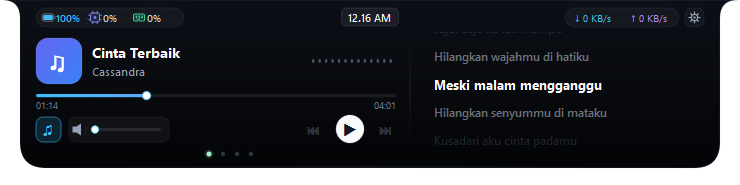
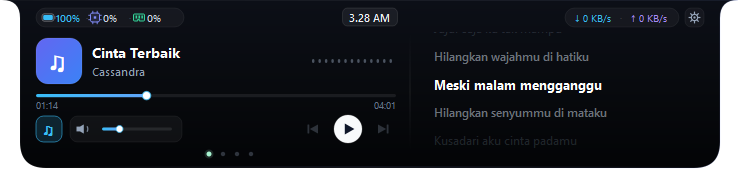
fix(ui): calibrate padding, optical centering, and vector transport controls in media hub

Changed region(s): [[0.4041, 0.6216, 0.5284, 0.7838], [0.0311, 0.6216, 0.1865, 0.7568], [0.4662, 0.0541, 0.5284, 0.1351]]

diff --git a/dynamic.py b/dynamic.py
@@ -2173,12 +2173,9 @@ class DesktopDynamicIsland(QWidget):
     @staticmethod
     def _draw_animated_speaker_icon(painter, cx: float, cy: float, level: float, pulse: float = 0.0, is_mute: bool = False, color: QColor = QColor("#CBD5E1")):
         """
-        Renders the dynamic animated speaker icon:
-        - level == 0 or is_mute: Speaker + micro cross (✕)
-        - 0 < level <= 0.33: Speaker + 1 wave
-        - 0.33 < level <= 0.66: Speaker + 2 waves
-        - level > 0.66: Speaker + 3 waves
-        - pulse: scale punch / ripple wave animation factor
+        Renders the dynamic animated speaker icon with refined proportions:
+        - Clean padding from capsule edge
+        - Soundwaves scaled to fit elegantly within the capsule without clipping
         """
         painter.save()
         painter.setRenderHint(QPainter.RenderHint.Antialiasing)
@@ -2190,18 +2187,18 @@ class DesktopDynamicIsland(QWidget):
             painter.translate(-cx, -cy)
 
         # 1. Speaker Cone Body
-        cone_w = 4.0
-        cone_h = 6.0
-        flare_w = 4.5
-        flare_h = 12.0
+        cone_w = 3.5
+        cone_h = 4.8
+        flare_w = 3.8
+        flare_h = 9.2
 
         body = QPainterPath()
-        body.moveTo(cx - 7.5, cy - cone_h / 2.0)
-        body.lineTo(cx - 7.5 + cone_w, cy - cone_h / 2.0)
-        body.lineTo(cx - 7.5 + cone_w + flare_w, cy - flare_h / 2.0)
-        body.lineTo(cx - 7.5 + cone_w + flare_w, cy + flare_h / 2.0)
-        body.lineTo(cx - 7.5 + cone_w, cy + cone_h / 2.0)
-        body.lineTo(cx - 7.5, cy + cone_h / 2.0)
+        body.moveTo(cx - 6.5, cy - cone_h / 2.0)
+        body.lineTo(cx - 6.5 + cone_w, cy - cone_h / 2.0)
+        body.lineTo(cx - 6.5 + cone_w + flare_w, cy - flare_h / 2.0)
+        body.lineTo(cx - 6.5 + cone_w + flare_w, cy + flare_h / 2.0)
+        body.lineTo(cx - 6.5 + cone_w, cy + cone_h / 2.0)
+        body.lineTo(cx - 6.5, cy + cone_h / 2.0)
         body.closeSubpath()
 
         painter.setPen(Qt.PenStyle.NoPen)
@@ -2210,18 +2207,18 @@ class DesktopDynamicIsland(QWidget):
 
         # 2. Soundwaves / Mute State
         if is_mute or level <= 0.001:
-            painter.setPen(QPen(QColor("#F87171"), 1.6, Qt.PenStyle.SolidLine, Qt.PenCapStyle.RoundCap))
-            cross_cx = cx + 5.0
-            painter.drawLine(QPointF(cross_cx - 3.2, cy - 3.2), QPointF(cross_cx + 3.2, cy + 3.2))
-            painter.drawLine(QPointF(cross_cx - 3.2, cy + 3.2), QPointF(cross_cx + 3.2, cy - 3.2))
+            painter.setPen(QPen(QColor("#F87171"), 1.5, Qt.PenStyle.SolidLine, Qt.PenCapStyle.RoundCap))
+            cross_cx = cx + 4.5
+            painter.drawLine(QPointF(cross_cx - 2.5, cy - 2.5), QPointF(cross_cx + 2.5, cy + 2.5))
+            painter.drawLine(QPointF(cross_cx - 2.5, cy + 2.5), QPointF(cross_cx + 2.5, cy - 2.5))
         else:
             painter.setBrush(Qt.BrushStyle.NoBrush)
             w1_alpha = min(255, int(255 * min(1.0, level / 0.33)))
             w1_col = QColor(color.red(), color.green(), color.blue(), w1_alpha)
             painter.setPen(QPen(w1_col, 1.3, Qt.PenStyle.SolidLine, Qt.PenCapStyle.RoundCap))
             wave1 = QPainterPath()
-            wave1.arcMoveTo(QRectF(cx + 1.0, cy - 4.5, 5.0, 9.0), -45)
-            wave1.arcTo(QRectF(cx + 1.0, cy - 4.5, 5.0, 9.0), -45, 90)
+            wave1.arcMoveTo(QRectF(cx + 1.2, cy - 3.2, 3.6, 6.4), -45)
+            wave1.arcTo(QRectF(cx + 1.2, cy - 3.2, 3.6, 6.4), -45, 90)
             painter.drawPath(wave1)
 
             if level > 0.33:
@@ -2229,8 +2226,8 @@ class DesktopDynamicIsland(QWidget):
                 w2_col = QColor(color.red(), color.green(), color.blue(), w2_alpha)
                 painter.setPen(QPen(w2_col, 1.3, Qt.PenStyle.SolidLine, Qt.PenCapStyle.RoundCap))
                 wave2 = QPainterPath()
-                wave2.arcMoveTo(QRectF(cx + 3.5, cy - 7.5, 7.5, 15.0), -50)
-                wave2.arcTo(QRectF(cx + 3.5, cy - 7.5, 7.5, 15.0), -50, 100)
+                wave2.arcMoveTo(QRectF(cx + 3.2, cy - 5.2, 5.2, 10.4), -50)
+                wave2.arcTo(QRectF(cx + 3.2, cy - 5.2, 5.2, 10.4), -50, 100)
                 painter.drawPath(wave2)
 
             if level > 0.66:
@@ -2238,13 +2235,65 @@ class DesktopDynamicIsland(QWidget):
                 w3_col = QColor(color.red(), color.green(), color.blue(), w3_alpha)
                 painter.setPen(QPen(w3_col, 1.3, Qt.PenStyle.SolidLine, Qt.PenCapStyle.RoundCap))
                 wave3 = QPainterPath()
-                wave3.arcMoveTo(QRectF(cx + 6.0, cy - 10.5, 10.0, 21.0), -55)
-                wave3.arcTo(QRectF(cx + 6.0, cy - 10.5, 10.0, 21.0), -55, 110)
+                wave3.arcMoveTo(QRectF(cx + 5.2, cy - 7.2, 6.8, 14.4), -55)
+                wave3.arcTo(QRectF(cx + 5.2, cy - 7.2, 6.8, 14.4), -55, 110)
                 painter.drawPath(wave3)
 
         painter.restore()
 
     @staticmethod
+    def _draw_vector_prev(painter, cx: float, cy: float, col: QColor):
+        """Draw clean, antialiased vector previous button (bar + left triangle)."""
+        painter.save()
+        painter.setRenderHint(QPainter.RenderHint.Antialiasing)
+        painter.setPen(Qt.PenStyle.NoPen)
+        painter.setBrush(QBrush(col))
+        painter.drawRoundedRect(QRectF(cx - 5.5, cy - 4.5, 1.8, 9.0), 0.6, 0.6)
+        tri = QPainterPath()
+        tri.moveTo(cx + 5.0, cy - 4.5)
+        tri.lineTo(cx - 3.2, cy)
+        tri.lineTo(cx + 5.0, cy + 4.5)
+        tri.closeSubpath()
+        painter.drawPath(tri)
+        painter.restore()
+
+    @staticmethod
+    def _draw_vector_next(painter, cx: float, cy: float, col: QColor):
+        """Draw clean, antialiased vector next button (right triangle + bar)."""
+        painter.save()
+        painter.setRenderHint(QPainter.RenderHint.Antialiasing)
+        painter.setPen(Qt.PenStyle.NoPen)
+        painter.setBrush(QBrush(col))
+        tri = QPainterPath()
+        tri.moveTo(cx - 5.0, cy - 4.5)
+        tri.lineTo(cx + 3.2, cy)
+        tri.lineTo(cx - 5.0, cy + 4.5)
+        tri.closeSubpath()
+        painter.drawPath(tri)
+        painter.drawRoundedRect(QRectF(cx + 3.7, cy - 4.5, 1.8, 9.0), 0.6, 0.6)
+        painter.restore()
+
+    @staticmethod
+    def _draw_vector_play_pause(painter, cx: float, cy: float, is_playing: bool, col: QColor):
+        """Draw optically balanced play triangle or symmetrical pause bars."""
+        painter.save()
+        painter.setRenderHint(QPainter.RenderHint.Antialiasing)
+        painter.setPen(Qt.PenStyle.NoPen)
+        painter.setBrush(QBrush(col))
+        if is_playing:
+            p1 = QRectF(cx - 3.8, cy - 5.0, 2.6, 10.0)
+            p2 = QRectF(cx + 1.2, cy - 5.0, 2.6, 10.0)
+            painter.drawRoundedRect(p1, 0.8, 0.8)
+            painter.drawRoundedRect(p2, 0.8, 0.8)
+        else:
+            tri = QPainterPath()
+            tri.moveTo(cx - 3.2, cy - 5.5)
+            tri.lineTo(cx + 6.4, cy)
+            tri.lineTo(cx - 3.2, cy + 5.5)
+            tri.closeSubpath()
+            painter.drawPath(tri)
+        painter.restore()
+
     def _draw_volume_icon(painter, rect: QRectF, increase: bool, color: QColor):
         """Draw SF Symbol speaker with crisp hairline plus/minus indicator."""
         cx, cy = rect.center().x(), rect.center().y()
@@ -4961,17 +5010,19 @@ class DesktopDynamicIsland(QWidget):
                 painter.drawText(QRectF(media_left, seek_y + 4.0, 50.0, 14.0), Qt.AlignmentFlag.AlignLeft | Qt.AlignmentFlag.AlignVCenter, self.format_time(display_pos))
                 painter.drawText(QRectF(media_left + seek_w - 50.0, seek_y + 4.0, 50.0, 14.0), Qt.AlignmentFlag.AlignRight | Qt.AlignmentFlag.AlignVCenter, self.format_time(dur))
 
-                # 5. Bottom Row: Controls & Volume Slider (ctrl_y = 117.0)
-                ctrl_y = 117.0
+                # 5. Bottom Row: Controls & Volume Slider (ctrl_y = 116.0, unified centerline y=129.0)
+                ctrl_y = 116.0
+                row_h = 26.0
+                cy_row = ctrl_y + (row_h / 2.0)
 
                 # 5a. Lyrics Button (Left)
                 if self.is_spotify_active:
-                    self.btn_lyrics_rect = QRectF(media_left, ctrl_y, 25.0, 25.0)
+                    self.btn_lyrics_rect = QRectF(media_left, ctrl_y, 26.0, 26.0)
                     lyrics_active = self.lyrics_open
                     painter.setBrush(QBrush(QColor(56, 189, 248, 40) if lyrics_active else QColor(255, 255, 255, 12)))
                     painter.setPen(QPen(QColor(56, 189, 248, 180) if lyrics_active else QColor(255, 255, 255, 20), 0.8))
-                    painter.drawRoundedRect(self.btn_lyrics_rect, 7.0, 7.0)
-                    painter.setFont(_font("Segoe UI", 9.5, QFont.Weight.DemiBold))
+                    painter.drawRoundedRect(self.btn_lyrics_rect, 7.5, 7.5)
+                    painter.setFont(_font("Segoe UI Symbol", 9.5, QFont.Weight.Bold))
                     painter.setPen(QColor("#38BDF8") if lyrics_active else QColor("#E2E8F0"))
                     painter.drawText(self.btn_lyrics_rect, Qt.AlignmentFlag.AlignCenter, "♫")
                     vol_group_x = self.btn_lyrics_rect.right() + 8.0
@@ -4980,13 +5031,13 @@ class DesktopDynamicIsland(QWidget):
                     vol_group_x = media_left
 
                 # 5b. Speaker Icon + Volume Slider Capsule [ 🔈 ═════●───── ]
-                vol_group_w = 100.0
-                self.vol_group_rect = QRectF(vol_group_x, ctrl_y, vol_group_w, 25.0)
-                self.btn_speaker_rect = QRectF(vol_group_x, ctrl_y, 24.0, 25.0)
+                vol_group_w = 112.0
+                self.vol_group_rect = QRectF(vol_group_x, ctrl_y, vol_group_w, 26.0)
+                self.btn_speaker_rect = QRectF(vol_group_x, ctrl_y, 30.0, 26.0)
 
-                vol_track_x = vol_group_x + 24.0
-                vol_track_w = 68.0
-                vol_track_y = ctrl_y + 11.0
+                vol_track_x = vol_group_x + 32.0
+                vol_track_w = 70.0
+                vol_track_y = ctrl_y + 11.5
                 self.vol_track_rect = QRectF(vol_track_x, vol_track_y, vol_track_w, 3.0)
 
                 # Capsule Background
@@ -4994,7 +5045,7 @@ class DesktopDynamicIsland(QWidget):
                 slider_hovered = self.hovered_btn == "volume_slider" or getattr(self, "is_dragging_volume", False)
                 painter.setBrush(QBrush(QColor(255, 255, 255, 18 if (speaker_hovered or slider_hovered) else 11)))
                 painter.setPen(QPen(QColor(255, 255, 255, 16), 0.8))
-                painter.drawRoundedRect(self.vol_group_rect, 7.0, 7.0)
+                painter.drawRoundedRect(self.vol_group_rect, 7.5, 7.5)
 
                 if not getattr(self, "is_dragging_volume", False):
                     self.current_volume_scalar = self.audio_controller.get_volume()
@@ -5004,14 +5055,14 @@ class DesktopDynamicIsland(QWidget):
                 is_muted = getattr(self, "is_audio_muted", False)
                 vol_pulse = getattr(self, "volume_pulse", 0.0)
 
-                # Draw Animated Speaker Icon
+                # Draw Animated Speaker Icon (Clean 6.5px left padding, elegant waves)
                 speaker_col = QColor("#F87171") if (is_muted or cur_vol <= 0.001) else (
                     _interpolate_color(QColor("#94A3B8"), QColor("#FFFFFF"), 1.0 if speaker_hovered else 0.0)
                 )
                 self._draw_animated_speaker_icon(
                     painter,
-                    self.btn_speaker_rect.center().x() - 1.0,
-                    self.btn_speaker_rect.center().y(),
+                    vol_group_x + 13.0,
+                    cy_row,
                     0.0 if is_muted else cur_vol,
                     pulse=vol_pulse,
                     is_mute=is_muted,
@@ -5033,16 +5084,16 @@ class DesktopDynamicIsland(QWidget):
                     painter.setBrush(QBrush(vol_fill_grad))
                     painter.drawRoundedRect(QRectF(vol_track_x, vol_track_y, vol_val_w, 3.0), 1.5, 1.5)
 
-                # Thumb
+                # Thumb (centered at cy_row, clean cushion from right capsule border)
                 painter.setBrush(QBrush(QColor("#FFFFFF")))
                 painter.setPen(QPen(QColor(56, 189, 248, 200), 1.0))
-                painter.drawEllipse(QPointF(vol_track_x + vol_val_w, vol_track_y + 1.5), 3.8, 3.8)
+                painter.drawEllipse(QPointF(vol_track_x + vol_val_w, cy_row), 3.5, 3.5)
 
                 # 5c. Transport Controls or YouTube Skip Ad
                 skip_ready = self.youtube_ad_detected and self.youtube_can_skip
                 if skip_ready:
                     skip_width = min(126.0, max(92.0, media_w_area * 0.30))
-                    self.btn_skip_ad_rect = QRectF(media_left + media_w_area - skip_width, ctrl_y, skip_width, 25.0)
+                    self.btn_skip_ad_rect = QRectF(media_left + media_w_area - skip_width, ctrl_y, skip_width, 26.0)
                     self.btn_prev_rect = QRectF()
                     self.btn_play_rect = QRectF()
                     self.btn_next_rect = QRectF()
@@ -5053,51 +5104,48 @@ class DesktopDynamicIsland(QWidget):
                     skip_border = QColor(255, 255, 255, 60) if not skip_stale else QColor(100, 95, 80)
                     painter.setPen(QPen(skip_border, 1.0))
                     painter.setBrush(QBrush(skip_bg))
-                    painter.drawRoundedRect(self.btn_skip_ad_rect, 12.5, 12.5)
+                    painter.drawRoundedRect(self.btn_skip_ad_rect, 13.0, 13.0)
 
                     skip_icon = QPainterPath()
-                    skip_icon.moveTo(self.btn_skip_ad_rect.left() + 10.0, ctrl_y + 7.0)
-                    skip_icon.lineTo(self.btn_skip_ad_rect.left() + 17.0, ctrl_y + 12.5)
-                    skip_icon.lineTo(self.btn_skip_ad_rect.left() + 10.0, ctrl_y + 18.0)
+                    skip_icon.moveTo(self.btn_skip_ad_rect.left() + 10.0, ctrl_y + 7.5)
+                    skip_icon.lineTo(self.btn_skip_ad_rect.left() + 17.0, ctrl_y + 13.0)
+                    skip_icon.lineTo(self.btn_skip_ad_rect.left() + 10.0, ctrl_y + 18.5)
                     skip_icon.closeSubpath()
                     painter.setPen(Qt.PenStyle.NoPen)
                     skip_text_color = QColor("#090D16" if not skip_stale else "#2A261C")
                     painter.setBrush(QBrush(skip_text_color))
                     painter.drawPath(skip_icon)
-                    painter.drawRoundedRect(QRectF(self.btn_skip_ad_rect.left() + 19.0, ctrl_y + 7.0, 2.0, 11.0), 1.0, 1.0)
+                    painter.drawRoundedRect(QRectF(self.btn_skip_ad_rect.left() + 19.0, ctrl_y + 7.5, 2.0, 11.0), 1.0, 1.0)
                     painter.setPen(skip_text_color)
                     painter.setFont(_font("Segoe UI", 7.8, QFont.Weight.Bold))
-                    painter.drawText(QRectF(self.btn_skip_ad_rect.left() + 24.0, ctrl_y, skip_width - 28.0, 25.0), Qt.AlignmentFlag.AlignCenter, "Skip iklan")
+                    painter.drawText(QRectF(self.btn_skip_ad_rect.left() + 24.0, ctrl_y, skip_width - 28.0, 26.0), Qt.AlignmentFlag.AlignCenter, "Skip iklan")
                 else:
                     self.btn_skip_ad_rect = QRectF()
-                    play_cx = media_left + media_w_area - 46.0
-                    prev_cx = play_cx - 36.0
-                    next_cx = play_cx + 36.0
+                    media_right = media_left + media_w_area
+                    next_w = 26.0
+                    self.btn_next_rect = QRectF(media_right - next_w, ctrl_y, next_w, 26.0)
+                    play_cx = self.btn_next_rect.left() - 8.0 - 14.0
+                    self.btn_play_rect = QRectF(play_cx - 14.0, cy_row - 14.0, 28.0, 28.0)
+                    self.btn_prev_rect = QRectF(self.btn_play_rect.left() - 8.0 - 26.0, ctrl_y, 26.0, 26.0)
+                    prev_cx = self.btn_prev_rect.center().x()
+                    next_cx = self.btn_next_rect.center().x()
 
-                    self.btn_prev_rect = QRectF(prev_cx - 12.0, ctrl_y, 24.0, 25.0)
-                    self.btn_play_rect = QRectF(play_cx - 14.0, ctrl_y - 2.0, 28.0, 28.0)
-                    self.btn_next_rect = QRectF(next_cx - 12.0, ctrl_y, 24.0, 25.0)
-
-                    # Prev
+                    # Prev Vector
                     prev_t = self.btn_hover_anim.get("prev", 0.0)
-                    painter.setFont(_font("Segoe UI Symbol", 10.5, QFont.Weight.Bold))
-                    painter.setPen(_interpolate_color(QColor("#CBD5E1"), QColor("#FFFFFF"), prev_t) if self.can_previous else QColor(148, 163, 184, 70))
-                    painter.drawText(self.btn_prev_rect, Qt.AlignmentFlag.AlignCenter, "⏮")
+                    prev_col = _interpolate_color(QColor("#CBD5E1"), QColor("#FFFFFF"), prev_t) if self.can_previous else QColor(148, 163, 184, 70)
+                    self._draw_vector_prev(painter, prev_cx, cy_row, prev_col)
 
                     # Play / Pause Hero White Circle
                     play_t = self.btn_hover_anim.get("play", 0.0)
                     painter.setBrush(QBrush(_interpolate_color(QColor("#F8FAFC"), QColor("#FFFFFF"), play_t)))
                     painter.setPen(QPen(QColor(255, 255, 255, 70), 0.8))
                     painter.drawEllipse(self.btn_play_rect)
-                    painter.setPen(QColor("#0F172A"))
-                    painter.setFont(_font("Segoe UI Symbol", 11.0, QFont.Weight.Bold))
-                    painter.drawText(self.btn_play_rect, Qt.AlignmentFlag.AlignCenter, "⏸" if self.is_playing else "▶")
+                    self._draw_vector_play_pause(painter, play_cx, cy_row, self.is_playing, QColor("#0F172A"))
 
-                    # Next
+                    # Next Vector
                     next_t = self.btn_hover_anim.get("next", 0.0)
-                    painter.setFont(_font("Segoe UI Symbol", 10.5, QFont.Weight.Bold))
-                    painter.setPen(_interpolate_color(QColor("#CBD5E1"), QColor("#FFFFFF"), next_t) if self.can_next else QColor(148, 163, 184, 70))
-                    painter.drawText(self.btn_next_rect, Qt.AlignmentFlag.AlignCenter, "⏭")
+                    next_col = _interpolate_color(QColor("#CBD5E1"), QColor("#FFFFFF"), next_t) if self.can_next else QColor(148, 163, 184, 70)
+                    self._draw_vector_next(painter, next_cx, cy_row, next_col)
 
             # =========================================================================
             # CASE C: LYRICS SIDE DRAWER (WHEN w > self.expanded_w)
